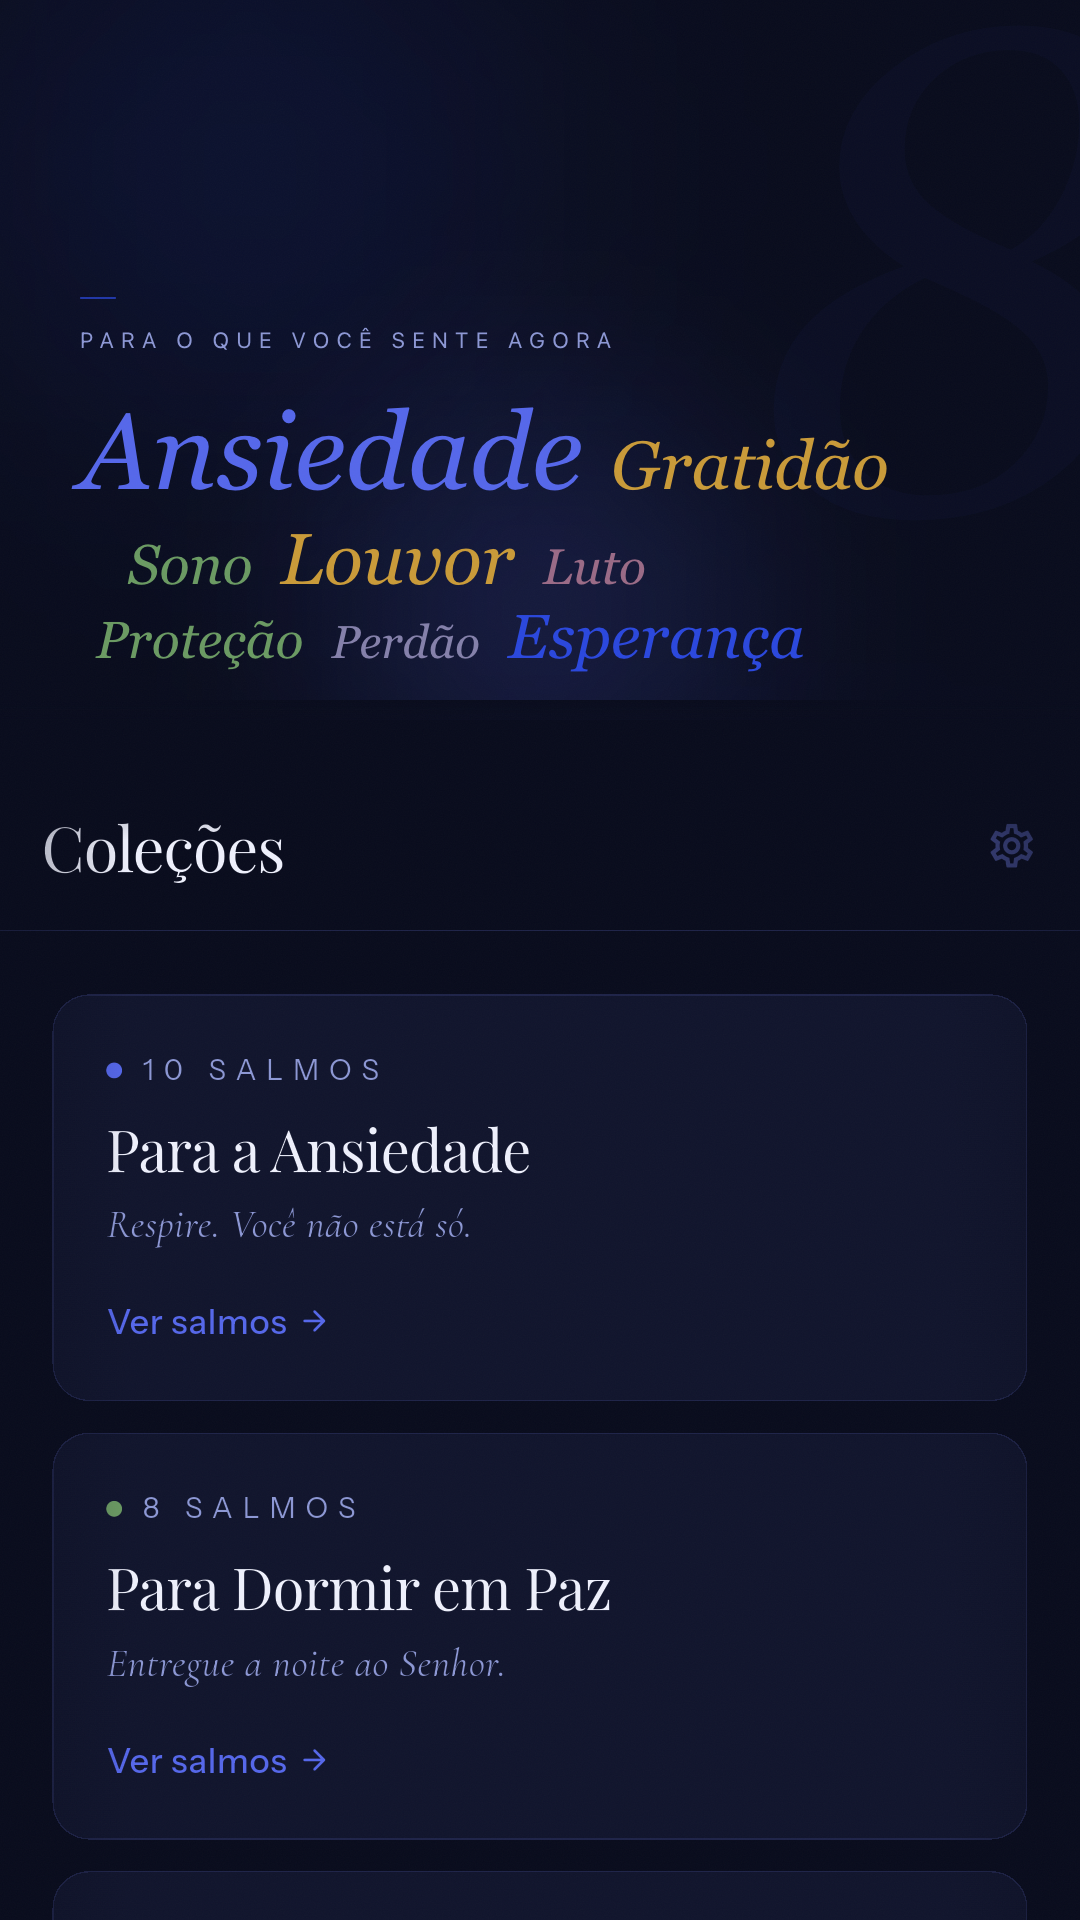
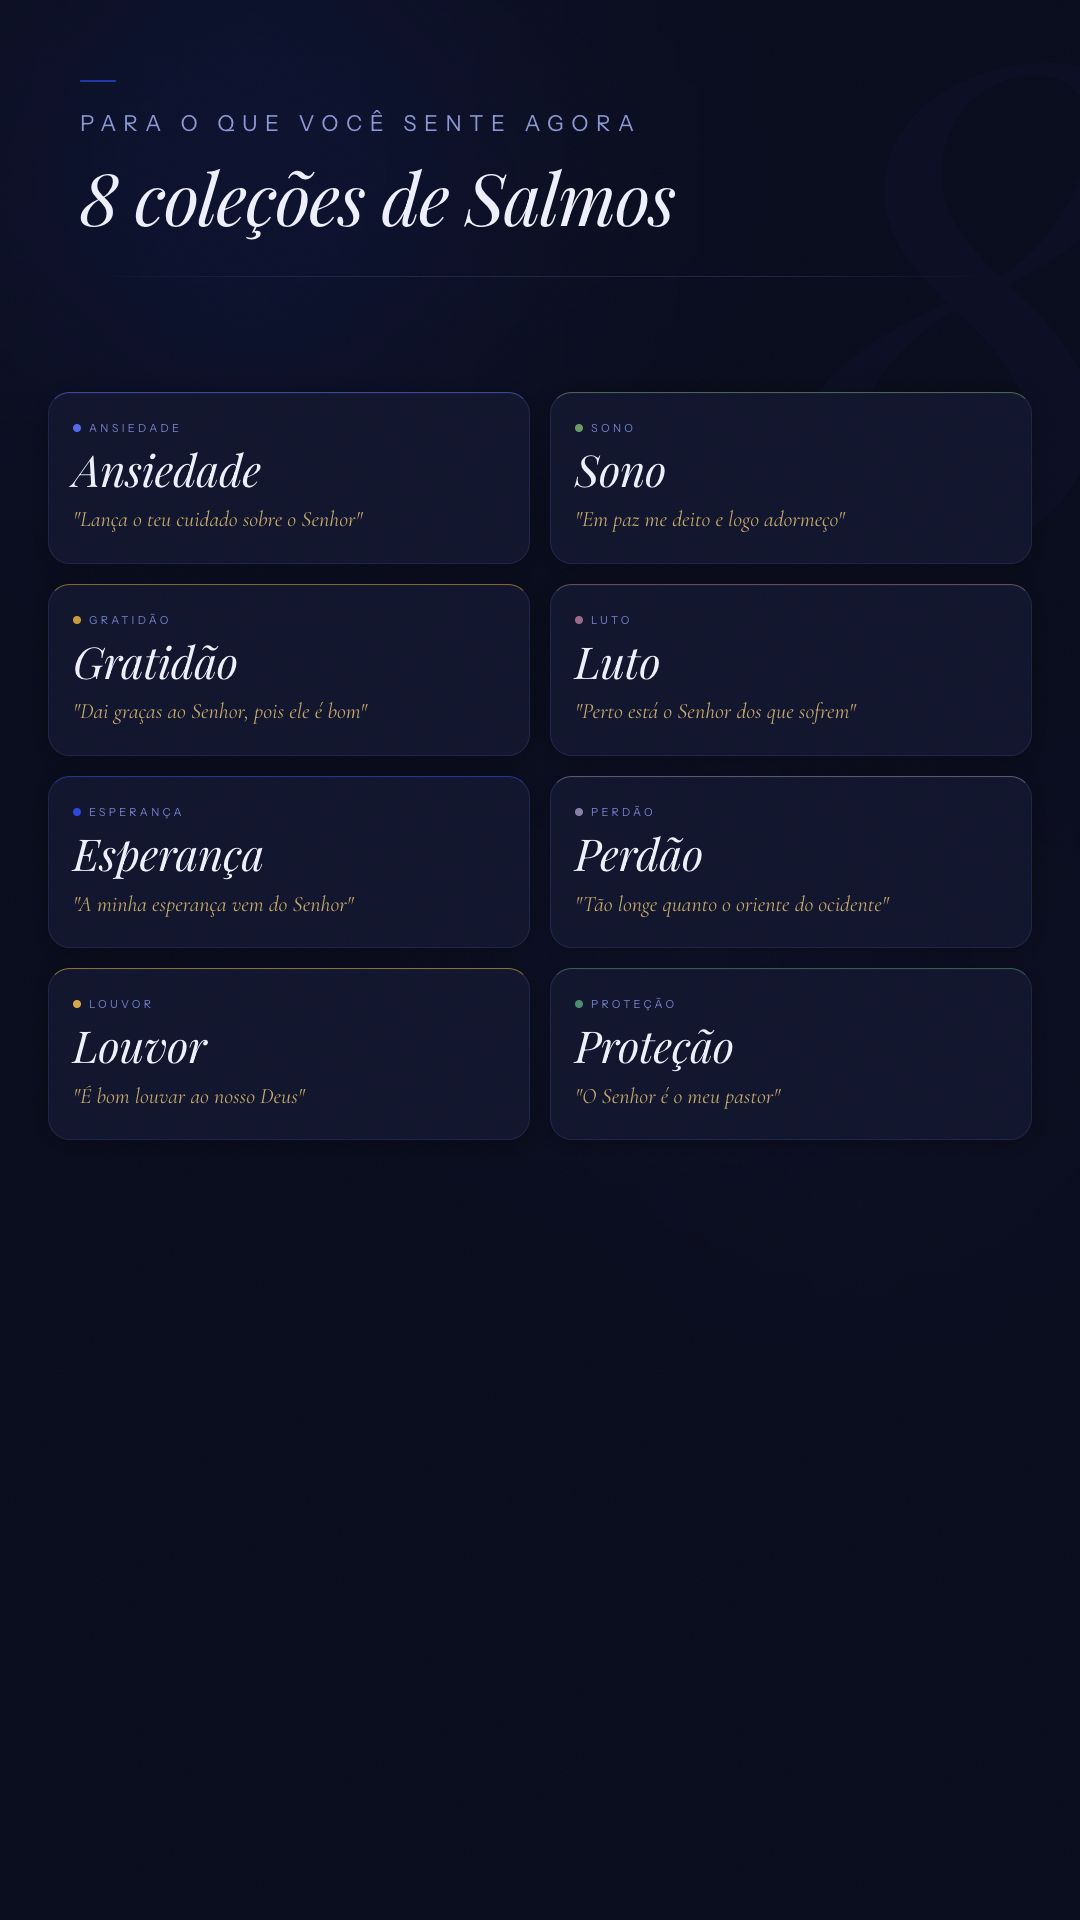
play-store: redesign S1 as 8 collection cards showcase
Replace word-cloud + app screenshot with 8 branded emotion cards in a
2-col grid. Each card: emotion dot, collection name (Playfair italic 44px),
verse snippet (Cormorant italic gold). Header keeps LP visual language
(blobs, noise, ghost "8", deco-bar). More commercial, no app screenshot.

diff --git a/play-store/screenshots/final/s1-colecoes.html b/play-store/screenshots/final/s1-colecoes.html
@@ -82,7 +82,7 @@
       66%      { transform: translate(-18px,18px) scale(.96); }
     }
 
-    /* ── GHOST PSALM NUMBER (LP .ghost) ── */
+    /* ── GHOST NUMBER (LP .ghost) ── */
     .ghost-number {
       position: absolute;
       right: -.06em;
@@ -100,19 +100,25 @@
       z-index: 2;
     }
 
-    /* ── TOP ZONE ── */
-    .top-zone {
-      position: absolute;
-      top: 0; left: 0; right: 0;
-      height: 768px;
+    /* ── LAYOUT WRAPPER ── */
+    .layout {
+      position: relative;
+      z-index: 3;
       display: flex;
       flex-direction: column;
-      justify-content: flex-end;
-      padding: 80px 80px 64px;
-      z-index: 3;
+      height: 1920px;
     }
 
-    /* Deco bar above eyebrow (LP .sb-deco) */
+    /* ── HEADER ZONE (~360px) ── */
+    .header-zone {
+      flex-shrink: 0;
+      height: 360px;
+      padding: 80px 80px 0;
+      display: flex;
+      flex-direction: column;
+      justify-content: flex-start;
+    }
+
     .deco-bar {
       width: 36px;
       height: 2px;
@@ -129,95 +135,120 @@
       letter-spacing: .34em;
       text-transform: uppercase;
       color: var(--night-text);
+      margin-bottom: 20px;
+    }
+
+    .headline {
+      font-family: 'Playfair Display', Georgia, serif;
+      font-style: italic;
+      font-weight: 400;
+      font-size: 72px;
+      letter-spacing: -.02em;
+      line-height: 1.1;
+      color: var(--night-cream);
       margin-bottom: 40px;
     }
 
-    /* Asymmetric word grid */
-    .word-grid {
-      display: flex;
-      flex-direction: column;
-      gap: 8px;
-    }
-
-    .word-row {
-      display: flex;
-      align-items: baseline;
-      gap: 28px;
-      flex-wrap: wrap;
-    }
-
-    .word {
-      font-family: 'Playfair Display', Georgia, serif;
-      font-style: italic;
-      line-height: 1.1;
-    }
-
-    .w-ansiedade { font-size: 108px; font-weight: 500; color: var(--cobalt-400); }
-    .w-sono      { font-size: 56px;  font-weight: 400; color: #6A9A62; }
-    .w-gratidao  { font-size: 68px;  font-weight: 400; color: #C99A38; }
-    .w-luto      { font-size: 50px;  font-weight: 400; color: #9A6A86; }
-    .w-esperanca { font-size: 62px;  font-weight: 400; color: var(--cobalt-500); }
-    .w-perdao    { font-size: 46px;  font-weight: 400; color: #8480AA; }
-    .w-louvor    { font-size: 72px;  font-weight: 400; color: #C99A38; }
-    .w-protecao  { font-size: 52px;  font-weight: 400; color: #6A9A62; }
-
-    /* Gradient divider below word-grid (LP .div) */
     .gradient-divider {
       height: .5px;
       background: linear-gradient(90deg, transparent, var(--night-line) 25%, var(--night-line) 75%, transparent);
-      margin-top: 32px;
     }
 
-    /* Glow behind word grid */
-    .glow {
-      position: absolute;
-      width: 700px;
-      height: 700px;
+    /* ── CARDS GRID ZONE ── */
+    .cards-zone {
+      flex: 1;
+      display: grid;
+      grid-template-columns: 1fr 1fr;
+      gap: 20px;
+      padding: 32px 48px 80px;
+      align-content: start;
+    }
+
+    /* ── CARD ── */
+    .card {
+      background: var(--night-plus);
+      border: .5px solid var(--night-line);
+      border-radius: 22px;
+      padding: 28px 24px;
+      box-shadow:
+        0 2px 24px rgba(0,0,0,.35),
+        0 1px 0 rgba(255,255,255,.02) inset;
+      display: flex;
+      flex-direction: column;
+    }
+
+    .card-label {
+      display: flex;
+      align-items: center;
+      margin-bottom: 10px;
+    }
+
+    .dot {
+      display: inline-block;
+      width: 8px;
+      height: 8px;
       border-radius: 50%;
-      background: radial-gradient(circle, rgba(85,103,234,.20) 0%, transparent 65%);
-      top: 260px;
-      left: 50%;
-      transform: translateX(-50%);
-      pointer-events: none;
-      z-index: 2;
-      filter: blur(60px);
+      margin-right: 8px;
+      flex-shrink: 0;
     }
 
-    /* Fade bridge */
-    .fade-bridge {
-      position: absolute;
-      top: 700px; left: 0; right: 0;
-      height: 140px;
-      background: linear-gradient(to bottom, var(--night-base), transparent);
-      z-index: 4;
-      pointer-events: none;
+    .emotion-name {
+      font-family: 'Instrument Sans', system-ui, sans-serif;
+      font-size: 11px;
+      font-weight: 400;
+      letter-spacing: .3em;
+      text-transform: uppercase;
+      color: var(--night-muted);
     }
 
-    /* ── BOTTOM 60% — app screenshot ── */
-    .app-zone {
-      position: absolute;
-      bottom: 0; left: 0; right: 0;
-      height: 1200px;
-      z-index: 2;
+    .collection-name {
+      font-family: 'Playfair Display', Georgia, serif;
+      font-style: italic;
+      font-weight: 400;
+      font-size: 44px;
+      line-height: 1.1;
+      color: var(--night-cream);
+      letter-spacing: -.01em;
+    }
+
+    .verse-snippet {
+      font-family: 'Cormorant', Georgia, serif;
+      font-style: italic;
+      font-weight: 400;
+      font-size: 22px;
+      line-height: 1.35;
+      color: var(--gold);
+      margin-top: 12px;
       overflow: hidden;
+      display: -webkit-box;
+      -webkit-line-clamp: 2;
+      -webkit-box-orient: vertical;
     }
 
-    .app-zone img {
-      width: 100%;
-      height: 100%;
-      object-fit: cover;
-      object-position: top center;
-      display: block;
+    /* ── PER-CARD ACCENT COLORS ── */
+    .card-ansiedade {
+      border-top: 1px solid rgba(85, 103, 234, .6);
     }
-
-    .app-zone::after {
-      content: '';
-      position: absolute;
-      inset: 0;
-      background:
-        linear-gradient(to right, rgba(8,11,28,.35) 0%, transparent 12%),
-        linear-gradient(to left,  rgba(8,11,28,.35) 0%, transparent 12%);
-      pointer-events: none;
+    .card-sono {
+      border-top: 1px solid rgba(106, 154, 98, .6);
+    }
+    .card-gratidao {
+      border-top: 1px solid rgba(201, 154, 56, .6);
+    }
+    .card-luto {
+      border-top: 1px solid rgba(154, 106, 134, .6);
+    }
+    .card-esperanca {
+      border-top: 1px solid rgba(42, 71, 221, .6);
+    }
+    .card-perdao {
+      border-top: 1px solid rgba(132, 128, 170, .6);
+    }
+    .card-louvor {
+      border-top: 1px solid rgba(212, 168, 67, .6);
+    }
+    .card-protecao {
+      border-top: 1px solid rgba(74, 140, 111, .6);
     }
   </style>
 </head>
@@ -231,38 +262,101 @@
   <!-- Ghost number -->
   <div class="ghost-number">8</div>
 
-  <!-- Radial glow -->
-  <div class="glow"></div>
+  <!-- Main layout -->
+  <div class="layout">
 
-  <!-- App screenshot — bottom 60% -->
-  <div class="app-zone">
-    <img src="../raw-cropped/02-colecoes.png" alt="Coleções">
-  </div>
-
-  <!-- Fade bridge -->
-  <div class="fade-bridge"></div>
-
-  <!-- Emotional word grid — top 40% -->
-  <div class="top-zone">
-    <div class="deco-bar"></div>
-    <p class="eyebrow">Para o que você sente agora</p>
-    <div class="word-grid">
-      <div class="word-row">
-        <span class="word w-ansiedade">Ansiedade</span>
-        <span class="word w-gratidao">Gratidão</span>
-      </div>
-      <div class="word-row" style="padding-left: 48px;">
-        <span class="word w-sono">Sono</span>
-        <span class="word w-louvor">Louvor</span>
-        <span class="word w-luto">Luto</span>
-      </div>
-      <div class="word-row" style="padding-left: 16px; margin-top: -4px;">
-        <span class="word w-protecao">Proteção</span>
-        <span class="word w-perdao">Perdão</span>
-        <span class="word w-esperanca">Esperança</span>
-      </div>
+    <!-- Header zone -->
+    <div class="header-zone">
+      <div class="deco-bar"></div>
+      <p class="eyebrow">Para o que você sente agora</p>
+      <h1 class="headline">8 coleções de Salmos</h1>
+      <div class="gradient-divider"></div>
     </div>
-    <div class="gradient-divider"></div>
+
+    <!-- Cards grid -->
+    <div class="cards-zone">
+
+      <!-- 1 · Ansiedade -->
+      <div class="card card-ansiedade">
+        <div class="card-label">
+          <span class="dot" style="background:#5567EA;"></span>
+          <span class="emotion-name">Ansiedade</span>
+        </div>
+        <div class="collection-name">Ansiedade</div>
+        <div class="verse-snippet">"Lança o teu cuidado sobre o Senhor"</div>
+      </div>
+
+      <!-- 2 · Sono -->
+      <div class="card card-sono">
+        <div class="card-label">
+          <span class="dot" style="background:#6A9A62;"></span>
+          <span class="emotion-name">Sono</span>
+        </div>
+        <div class="collection-name">Sono</div>
+        <div class="verse-snippet">"Em paz me deito e logo adormeço"</div>
+      </div>
+
+      <!-- 3 · Gratidão -->
+      <div class="card card-gratidao">
+        <div class="card-label">
+          <span class="dot" style="background:#C99A38;"></span>
+          <span class="emotion-name">Gratidão</span>
+        </div>
+        <div class="collection-name">Gratidão</div>
+        <div class="verse-snippet">"Dai graças ao Senhor, pois ele é bom"</div>
+      </div>
+
+      <!-- 4 · Luto -->
+      <div class="card card-luto">
+        <div class="card-label">
+          <span class="dot" style="background:#9A6A86;"></span>
+          <span class="emotion-name">Luto</span>
+        </div>
+        <div class="collection-name">Luto</div>
+        <div class="verse-snippet">"Perto está o Senhor dos que sofrem"</div>
+      </div>
+
+      <!-- 5 · Esperança -->
+      <div class="card card-esperanca">
+        <div class="card-label">
+          <span class="dot" style="background:#2A47DD;"></span>
+          <span class="emotion-name">Esperança</span>
+        </div>
+        <div class="collection-name">Esperança</div>
+        <div class="verse-snippet">"A minha esperança vem do Senhor"</div>
+      </div>
+
+      <!-- 6 · Perdão -->
+      <div class="card card-perdao">
+        <div class="card-label">
+          <span class="dot" style="background:#8480AA;"></span>
+          <span class="emotion-name">Perdão</span>
+        </div>
+        <div class="collection-name">Perdão</div>
+        <div class="verse-snippet">"Tão longe quanto o oriente do ocidente"</div>
+      </div>
+
+      <!-- 7 · Louvor -->
+      <div class="card card-louvor">
+        <div class="card-label">
+          <span class="dot" style="background:#D4A843;"></span>
+          <span class="emotion-name">Louvor</span>
+        </div>
+        <div class="collection-name">Louvor</div>
+        <div class="verse-snippet">"É bom louvar ao nosso Deus"</div>
+      </div>
+
+      <!-- 8 · Proteção -->
+      <div class="card card-protecao">
+        <div class="card-label">
+          <span class="dot" style="background:#4A8C6F;"></span>
+          <span class="emotion-name">Proteção</span>
+        </div>
+        <div class="collection-name">Proteção</div>
+        <div class="verse-snippet">"O Senhor é o meu pastor"</div>
+      </div>
+
+    </div>
   </div>
 
 </body>
